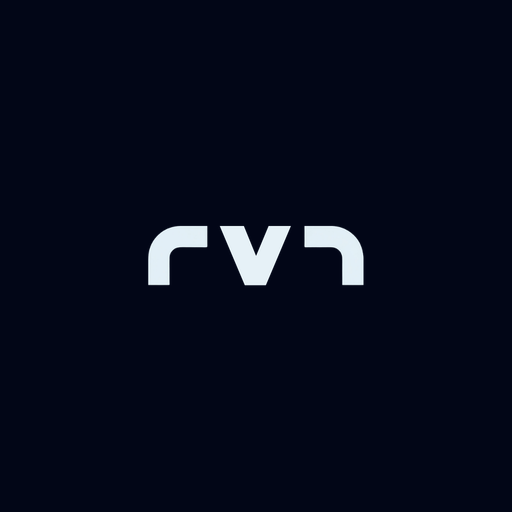
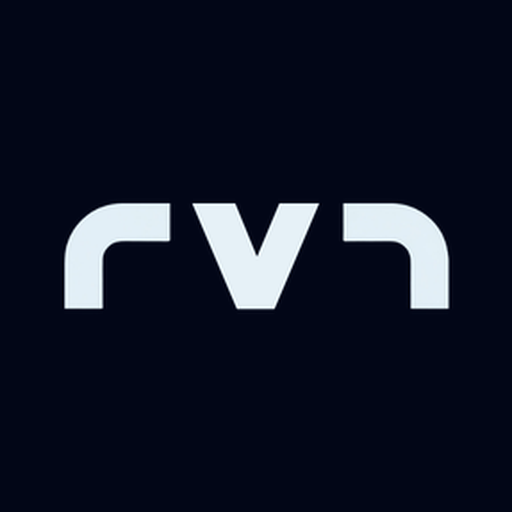
Napraw usuwanie z kolekcji, auto-reload przy ChunkLoadError, powieksz ikone, uzupelnij date regulaminu
- Kolekcja: popup potwierdzenia usuniecia byl renderowany bez createPortal,
  wiec na Safari backdrop-blur karty go przycinal (position:fixed w
  containing blocku) - klik w kosz wygladal jakby nic nie robil. Dodano
  portal do document.body + lepszy tekst ostrzezenia.
- error.tsx: blad ladowania starego chunku JS (np. po nowym deployu) teraz
  wywoluje automatyczny pelny reload zamiast bezuzytecznego "Sprobuj
  ponownie", ktore nie odswiezalo HTML/mapowania chunkow.
- icon.png/apple-icon.png/favicon.ico: przyciety nadmiarowy margines wokol
  logo, wieksza i wyrazniejsza ikona w zakladkach/wynikach wyszukiwania.
- Regulamin/Polityka prywatnosci: uzupelniona data wejscia w zycie
  (27 sierpnia 2026) w miejsce placeholdera.

Claude-Session: https://claude.ai/code/session_01RCiPDTg8DpDENVJ3vTcwaj

Changed region(s): [[0.125, 0.375, 0.9062, 0.625]]

diff --git a/frontend/app/collection/page.tsx b/frontend/app/collection/page.tsx
@@ -961,12 +961,19 @@ function CollectionCard({
         </div>
       </div>
 
-      {/* Delete confirmation modal */}
-      {confirmDelete && (
+      {/* Delete confirmation modal — portal do document.body: karta ma backdrop-blur (glass-card),
+          które w WebKit tworzy własny containing block dla position:fixed, więc bez portalu ten
+          popup renderował się wciśnięty (i przycięty przez overflow-hidden) w miejsce małej karty
+          zamiast pokrywać cały ekran — na Safari wyglądało to jak "klik w kosz nic nie robi". */}
+      {confirmDelete && createPortal(
         <div className="fixed inset-0 z-50 flex items-center justify-center bg-black/70 px-4" onClick={() => setConfirmDelete(false)}>
           <div className="glass-card w-full max-w-sm space-y-4 rounded-2xl p-6" onClick={(e) => e.stopPropagation()}>
-            <p className="text-sm font-medium text-slate-100">Czy na pewno chcesz usunąć tę koszulkę z kolekcji?</p>
-            <p className="text-xs text-slate-400">{item.club || "Nieznany klub"}{item.season ? ` · ${item.season}` : ""}</p>
+            <p className="text-sm font-medium text-slate-100">
+              Na pewno usunąć {item.club || "tę koszulkę"} z kolekcji?
+            </p>
+            <p className="text-xs text-slate-400">
+              Będziesz mógł dodać ją ponownie później — z poziomu nowej analizy albo ręcznie — ale stracisz zapisaną wycenę i historię cen tej pozycji.
+            </p>
             <div className="flex gap-2">
               <button
                 onClick={() => { setConfirmDelete(false); onDelete(item.id); }}
@@ -982,7 +989,8 @@ function CollectionCard({
               </button>
             </div>
           </div>
-        </div>
+        </div>,
+        document.body
       )}
 
       {/* Widok szczegółowy — okno "na froncie" nad całą siatką; karta w siatce nigdy się nie przesuwa.

diff --git a/frontend/app/error.tsx b/frontend/app/error.tsx
@@ -2,6 +2,9 @@
 
 import { useEffect } from "react";
 
+const CHUNK_ERROR_PATTERN = /Loading chunk .* failed|ChunkLoadError|failed to fetch dynamically imported module/i;
+const RELOAD_GUARD_KEY = "ls_chunk_error_reload";
+
 export default function GlobalError({
   error,
   reset,
@@ -9,9 +12,36 @@ export default function GlobalError({
   error: Error & { digest?: string };
   reset: () => void;
 }) {
+  const isChunkError = CHUNK_ERROR_PATTERN.test(error.message);
+
   useEffect(() => {
     console.error("Global error:", error);
-  }, [error]);
+
+    // Stary chunk JS (np. z HTML zbuforowanego sprzed nowego deployu) już nie istnieje
+    // na serwerze — samo `reset()` tylko ponownie renderuje drzewo React, nie pobiera
+    // nowego HTML/mapowania chunków, więc błąd wraca w kółko. Trzeba pełnego przeładowania.
+    if (isChunkError && !sessionStorage.getItem(RELOAD_GUARD_KEY)) {
+      sessionStorage.setItem(RELOAD_GUARD_KEY, "1");
+      window.location.reload();
+    }
+  }, [error, isChunkError]);
+
+  if (isChunkError) {
+    return (
+      <div className="flex min-h-screen items-center justify-center bg-slate-950 px-4">
+        <div className="max-w-md space-y-4 rounded-2xl border border-emerald-500/40 bg-slate-900 p-6 text-sm">
+          <h2 className="font-semibold text-emerald-400">Dostępna nowa wersja aplikacji</h2>
+          <p className="text-xs text-slate-300">Odświeżamy stronę, żeby wczytać aktualną wersję...</p>
+          <button
+            onClick={() => window.location.reload()}
+            className="rounded-full bg-emerald-500 px-4 py-2 text-xs font-medium text-slate-950"
+          >
+            Odśwież teraz
+          </button>
+        </div>
+      </div>
+    );
+  }
 
   return (
     <div className="flex min-h-screen items-center justify-center bg-slate-950 px-4">

diff --git a/frontend/app/regulamin/page.tsx b/frontend/app/regulamin/page.tsx
@@ -8,7 +8,7 @@ export const metadata: Metadata = {
 
 const CONTENT = `
 <h1>Regulamin serwisu LegitScore</h1>
-<p class="meta">legitscore.app · Wersja 2.0 · obowiązuje od [DATA WEJŚCIA W ŻYCIE]</p>
+<p class="meta">legitscore.app · Wersja 2.0 · obowiązuje od 27 sierpnia 2026</p>
 
 <div class="note">
   <strong>Najważniejsze:</strong> LegitScore dostarcza <strong>ocenę ryzyka autentyczności</strong> koszulki na podstawie zdjęć, wykonywaną przez systemy sztucznej inteligencji. <strong>Nie jest to certyfikat autentyczności, gwarancja ani ekspertyza rzeczoznawcza — i może zawierać błędy.</strong> Wynik ma charakter informacyjny i pomocniczy — ostateczną decyzję (w tym zakupową lub sprzedażową) podejmujesz wyłącznie samodzielnie, na własne ryzyko. Skorzystanie z Usługi wymaga założenia Konta i zalogowania się.

diff --git a/frontend/app/polityka-prywatnosci/page.tsx b/frontend/app/polityka-prywatnosci/page.tsx
@@ -8,7 +8,7 @@ export const metadata: Metadata = {
 
 const CONTENT = `
 <h1>Polityka prywatności</h1>
-<p class="meta">Serwis LegitScore (legitscore.app) · Wersja 2.0 · obowiązuje od [DATA WEJŚCIA W ŻYCIE]</p>
+<p class="meta">Serwis LegitScore (legitscore.app) · Wersja 2.0 · obowiązuje od 27 sierpnia 2026</p>
 
 <div class="note">
   <strong>W skrócie:</strong> LegitScore wymaga założenia Konta (e-mail i hasło, albo logowanie przez Google/Facebook) i zalogowania się przed uruchomieniem analizy przesłanych zdjęć koszulek. Analiza jest wykonywana z użyciem zewnętrznych usług sztucznej inteligencji. Poniżej wyjaśniamy, jakie dane zbieramy, po co, komu je powierzamy i jakie masz prawa.
